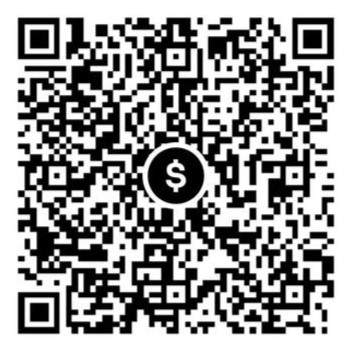
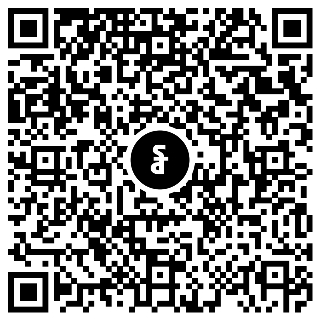
update something

diff --git a/src/components/ReceiptModal.jsx b/src/components/ReceiptModal.jsx
@@ -100,11 +100,15 @@ function ReceiptModal({ order, orderId, shopName = "ន កាហ្វេ", tri
             <div>សរុបរង: ${KHR_SYMBOL}${formatKHR(totalKHR)}</div>
             <div class="total">សរុបត្រូវបង់: ${KHR_SYMBOL}${formatKHR(totalKHR)}</div>
         </div>
-        <div className="receipt-qr-code">
-                        <p style={{fontSize:'0.8em', marginBottom:'5px', fontFamily: 'var(--font-family)'}}>
-                            សូមស្កេនដើម្បីទូទាត់
-                        </p>
-                        <img src={qrCode} alt="QR Code" />
+        <div class="receipt-qr-code" style="text-align:center; margin-top:20px; padding:10px;">
+            <p style="font-size:13px; margin-bottom:8px; font-weight:500;">
+                សូមស្កេនដើម្បីទូទាត់
+            </p>
+            <img 
+                src="${qrcode}" 
+                alt="QR Code" 
+                style="width:120px; height:120px; margin:0 auto; display:block; border:2px solid #ddd; padding:5px; background:white; border-radius:5px;"
+            />
         </div>
         <div style="text-align:center; margin-top:20px; font-size:14px;">
             សូមអរគុណ! សូមអញ្ជើញមកម្តងទៀត!
